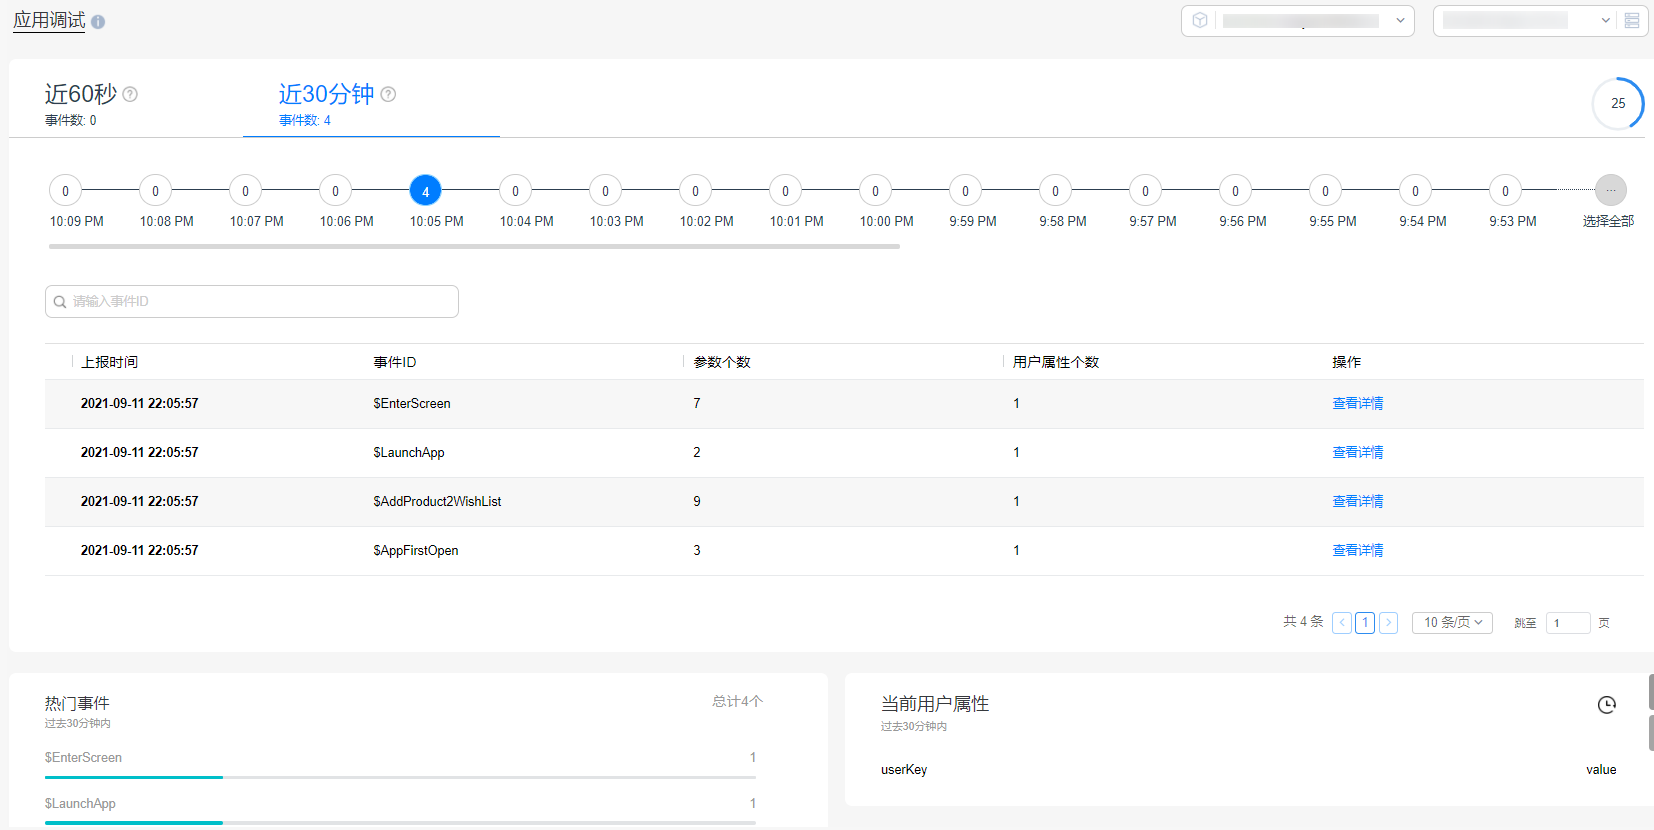
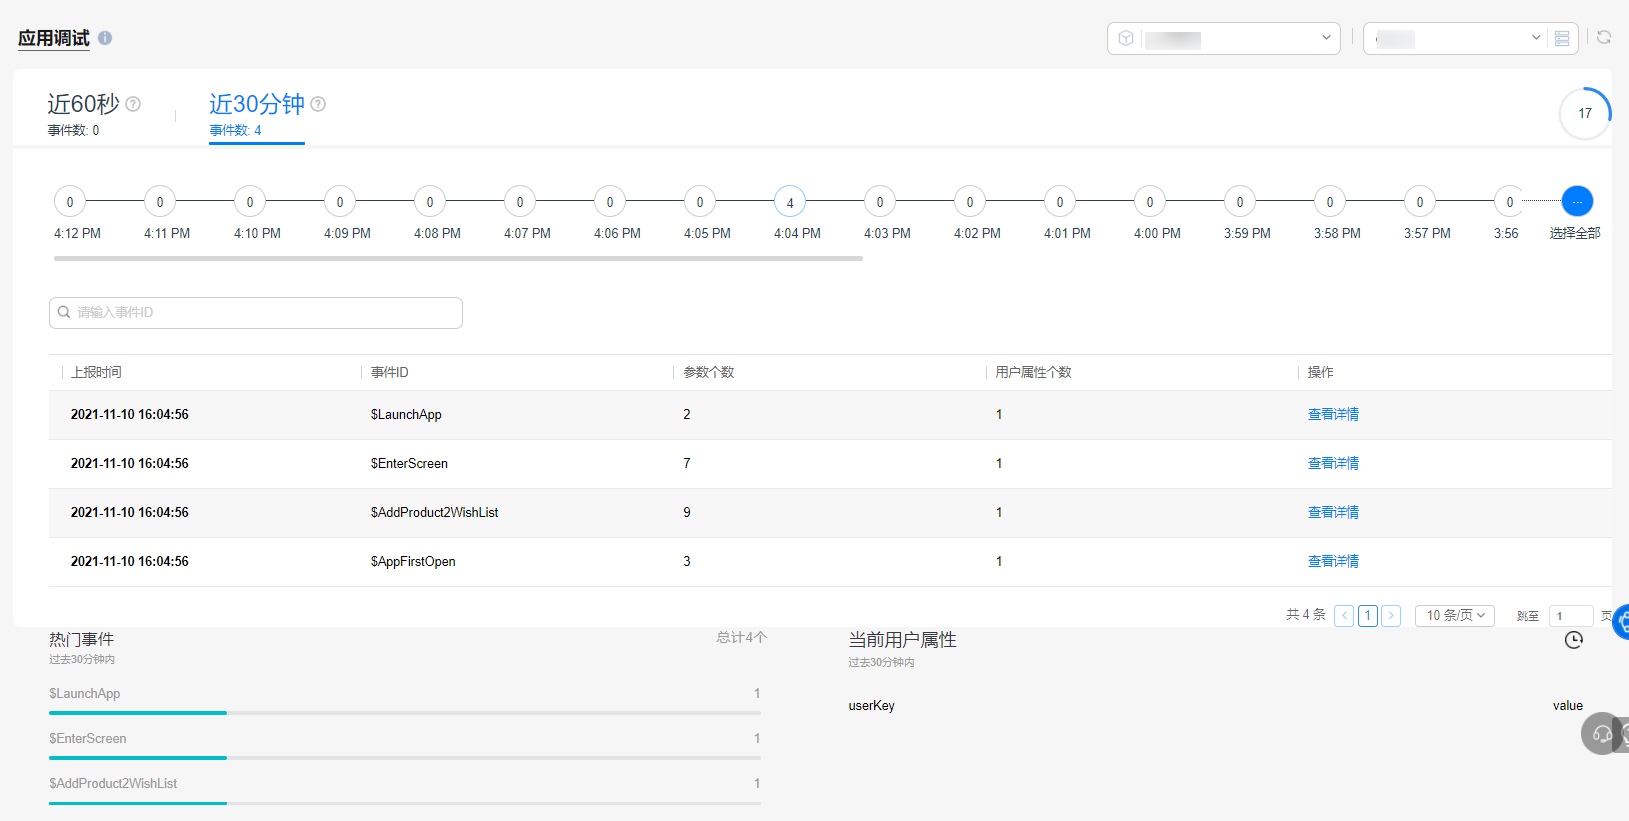
update images

diff --git a/HDC/Android/AnalyticsKitHDCDemo/README.md b/HDC/Android/AnalyticsKitHDCDemo/README.md
@@ -46,7 +46,7 @@ Use Android Studio to open the decompressed project.
 Hardware:
 1. A computer (desktop or laptop)
 2. A Huawei phone used for app debugging
-  
+
 Software:
 1. Analytics Kit 6.2.0
 2. Android API level 18 (Android 4.3 Jelly Bean) or later
@@ -55,13 +55,13 @@ Software:
 5. JDK 1.8 or later
 
 ## Operation Result
-**Enable the debug mode**. After running the app, you will see the following screen.
+After running the app, you will see the following screen.
 
-<img src="images/screen_0.PNG" height="770" width="368" style="max-width:100%;">
+<img src="images/screen_0.PNG" height="534" width="300" style="max-width:100%;">
 
-After the data is successfully reported, you can go to **HUAWEI Analytics** > **App debugging** to view the reported data.
+Enable the debug mode. After the data is successfully reported, you can go to **HUAWEI Analytics** > **App debugging** to view the reported data.
 
-<img src="images/screen_1.png" height="415" width="827" style="max-width:100%;">
+<img src="images/screen_2.PNG" height="534" width="300" style="max-width:100%;">
 
 ## License
 The Analytics Kit HDC demo is licensed under [Apache 2.0](http://www.apache.org/licenses/LICENSE-2.0).
